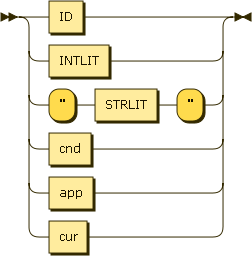
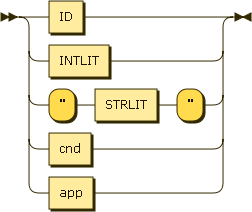
Syntax simplified. Typo in Tutorial 2 fixed.

diff --git a/syntax_app.rst b/syntax_app.rst
@@ -3,10 +3,7 @@
 Application (app)
 =================
 
-An Application (app) can be either explicit or an implicit. An explicit
-Application starts with the keyword ``apply`` and binds the special parameter
-``task`` to a :ref:`syntax_compoundexpr` of Task Definitions. An implicit
-application is equivalent to an explicit application with exactly one task ID.
+An Application (app) applies the task identified by its ID binding the tasks arguments to the given values.
 
 A :ref:`syntax_expr` can be an Application.
 
@@ -16,37 +13,31 @@ A :ref:`syntax_expr` can be an Application.
 
 ::
 
-    app ::= 'apply' '(' 'task' ':' compoundexpr ( ',' binding )* ')'
-          | ID '(' ( binding ( ',' binding )* )? ')'
+    app ::= ID '(' ( binding ( ',' binding )* )? ')'
     
 References:
 
-- :ref:`syntax_compoundexpr`
 - :ref:`syntax_binding`
 
 ID:
    An ID is a regular string beginning with a letter and containing letters,
-   numbers, or the symbols -, _, +, \*, or / and not being a keyword.
+   numbers, or the symbols -, _, or . and not being a keyword.
 
 Examples
 --------
 
-An implicit Application of the task ``sim`` consuming no input parameters::
+An Application of the task ``sim`` consuming no input parameters::
 	
     sim()
     
-An implicit Application of the task ``greet`` binding its only parameter ``person``
+An Application of the task ``greet`` binding its only parameter ``person``
 to a Compound Expression consisting of three string literals::
 	
     greet( person: "Jenny" "Peter" "John" )
-    
-An explicit Application of the task sim::
-	
-    apply( task: sim )
-    
-An explicit application of the tasks ``bowtie2-align`` and ``bwa-align`` binding
+        
+An Application of the tasks ``bowtie2-align`` and ``bwa-align`` binding
 their two input parameters ``idx`` and ``fastq``::
 	
     apply( task:  bowtie2-align bwa-align,
-           idx:   bowtie2-idx bwa-idx
+           idx:   bowtie2-idx bwa-idx,
            fastq: fastq )

diff --git a/syntax.rst b/syntax.rst
@@ -20,11 +20,10 @@ Complete Cuneiform syntax in EBNF::
     defun        ::= 'deftask' ID sign( '{' assign+ '}'
                                       | 'in' lang '*{' BODY '}*' )
     
-    sign         ::= '(' param+ ':'( '[' 'task' name+ ']' )? inparam* ')'
+    sign         ::= '(' param+ ':' inparam* ')'
     
     inparam      ::= param
                    | '[' name+ ']'
-                   | '{' 'comb' 'noreplace' name ':' ID+ '}'
     
     param        ::= name
                    | '<' name '>'
@@ -44,14 +43,10 @@ Complete Cuneiform syntax in EBNF::
                    | '"' STRLIT '"'
                    | cnd
                    | app
-                   | cur
                    
     cnd          ::= 'if' compoundexpr 'then' compoundexpr 'else' compoundexpr 'end'
     
-    app          ::= 'apply' '(' 'task' ':' compoundexpr ( ',' binding )* ')'
-                   | ID '(' ( binding ( ',' binding )* )? ')'
-                   
-    cur          ::= 'curry' '(' 'task' ':' compoundexpr ( ',' binding )+ ')'
+    app          ::= ID '(' ( binding ( ',' binding )* )? ')'
                    
     binding      ::= ID ':' compoundexpr
     
@@ -62,7 +57,6 @@ Complete Cuneiform syntax in EBNF::
    syntax_assign
    syntax_compoundexpr
    syntax_cnd
-   syntax_cur
    syntax_param
    syntax_inparam
    syntax_lang

diff --git a/syntax_expr.rst b/syntax_expr.rst
@@ -4,8 +4,8 @@ Singular Expression (expr)
 ==========================
 
 A Singular Expression is either an ID, acting as a placeholder for expression,
-an INTLIT, a STRLIT enclosed in quotes, a :ref:`syntax_cnd`, an
-:ref:`syntax_app`, or a :ref:`syntax_cur`.
+an INTLIT, a STRLIT enclosed in quotes, a :ref:`syntax_cnd`, or an
+:ref:`syntax_app`.
 
 An Expression can be part of a :ref:`syntax_compoundexpr`.
 
@@ -20,17 +20,15 @@ An Expression can be part of a :ref:`syntax_compoundexpr`.
            | '"' STRLIT '"'
            | cnd
            | app
-           | cur
     
 References:
 
 - :ref:`syntax_cnd`
 - :ref:`syntax_app`
-- :ref:`syntax_cur`
 
 ID:
    An ID is a regular string beginning with a letter and containing letters,
-   numbers, or the symbols -, _, +, \*, or / and not being a keyword.
+   numbers, or the symbols -, _, or . and not being a keyword.
    
 INTLIT:
    An INTLIT is an integer literal either being a single-digit number from 0 to

diff --git a/syntax_inparam.rst b/syntax_inparam.rst
@@ -3,9 +3,8 @@
 Input Parameter (inparam)
 =========================
 
-An Input Parameter (inparam) is either a :ref:`syntax_param`, a list of
-correlated elements of the form of a :ref:`syntax_name`, or a declaration of a
-combination without replacement. 
+An Input Parameter (inparam) is either a :ref:`syntax_param` or a list of
+correlated elements of the form of a :ref:`syntax_name`.
 
 An Input Parameter can appear in the input parameter list of a
 :ref:`syntax_sign`.
@@ -18,7 +17,6 @@ An Input Parameter can appear in the input parameter list of a
 
     inparam ::= param
               | '[' name+ ']'
-              | '{' 'comb' 'noreplace' name ':' ID+ '}'
     
 References:
 
@@ -27,6 +25,6 @@ References:
 
 ID:
    An ID is a regular string beginning with a letter and containing letters,
-   numbers, or the symbols -, _, +, \*, or / and not being a keyword.
+   numbers, or the symbols -, _, or . and not being a keyword.
 
 

diff --git a/syntax_sign.rst b/syntax_sign.rst
@@ -4,9 +4,7 @@ Task Signature (sign)
 =====================
 
 A Signature (sign) comprises a list of output elements of the form of a
-:ref:`syntax_param`, an optional list of elements of the form of a
-:ref:`syntax_name`, enumerating input parameters correlated with the task, and a
-list of elements of the form of an :ref:`syntax_inparam`.
+:ref:`syntax_param` and a list of elements of the form of an :ref:`syntax_inparam`.
 
 A Signature is a specification of all output, and input parameters in a
 :ref:`syntax_defun`.
@@ -17,7 +15,7 @@ A Signature is a specification of all output, and input parameters in a
 
 ::
 
-    sign ::= '(' param+ ':'( '[' 'task' name+ ']' )? inparam* ')'
+    sign ::= '(' param+ ':' inparam* ')'
 
     
 References:
@@ -57,7 +55,3 @@ instance::
 	
     ( <out> : x )
     
-A signature correlating the parameter *x* with the task and returning an output
-*out*::
-	
-    ( out : [task x] )

diff --git a/syntax_defun.rst b/syntax_defun.rst
@@ -26,7 +26,7 @@ References:
 
 ID:
    An ID is a regular string beginning with a letter and containing letters,
-   numbers, or the symbols -, _, +, \*, or / and not being a keyword.
+   numbers, or the symbols -, _, or . and not being a keyword.
    
 BODY:
    The BODY is a regular string not containing the symbols } and \* in a row.	

diff --git a/syntax_assign.rst b/syntax_assign.rst
@@ -24,7 +24,7 @@ References:
 
 ID:
    An ID is a regular string beginning with a letter and containing letters,
-   numbers, or the symbols -, _, +, \*, or / and not being a keyword.
+   numbers, or the symbols -, _, or . and not being a keyword.
 
 Examples
 --------

diff --git a/syntax_binding.rst b/syntax_binding.rst
@@ -22,6 +22,6 @@ References:
 
 ID:
    An ID is a regular string beginning with a letter and containing letters,
-   numbers, or the symbols -, _, +, \*, or / and not being a keyword.
+   numbers, or the symbols -, _, or . and not being a keyword.
 
 

diff --git a/tutorial_files.rst b/tutorial_files.rst
@@ -173,7 +173,7 @@ Example e-2.5::
     }*
     
     file = cat( file: to-file( content: 1 2 3 4 5 6 7 8 ) );
-    filelist = split( file: file );
+    filelist = split4( file: file );
     
     filelist;
 

diff --git a/syntax_cnd.rst b/syntax_cnd.rst
@@ -10,9 +10,9 @@ evaluates to the then Compound Expression.
 
 A :ref:`syntax_expr` can be a Conditional.
 
-**cond:**
+**cnd:**
 
-.. image:: img/cond.png
+.. image:: img/cnd.png
 
 ::
 
